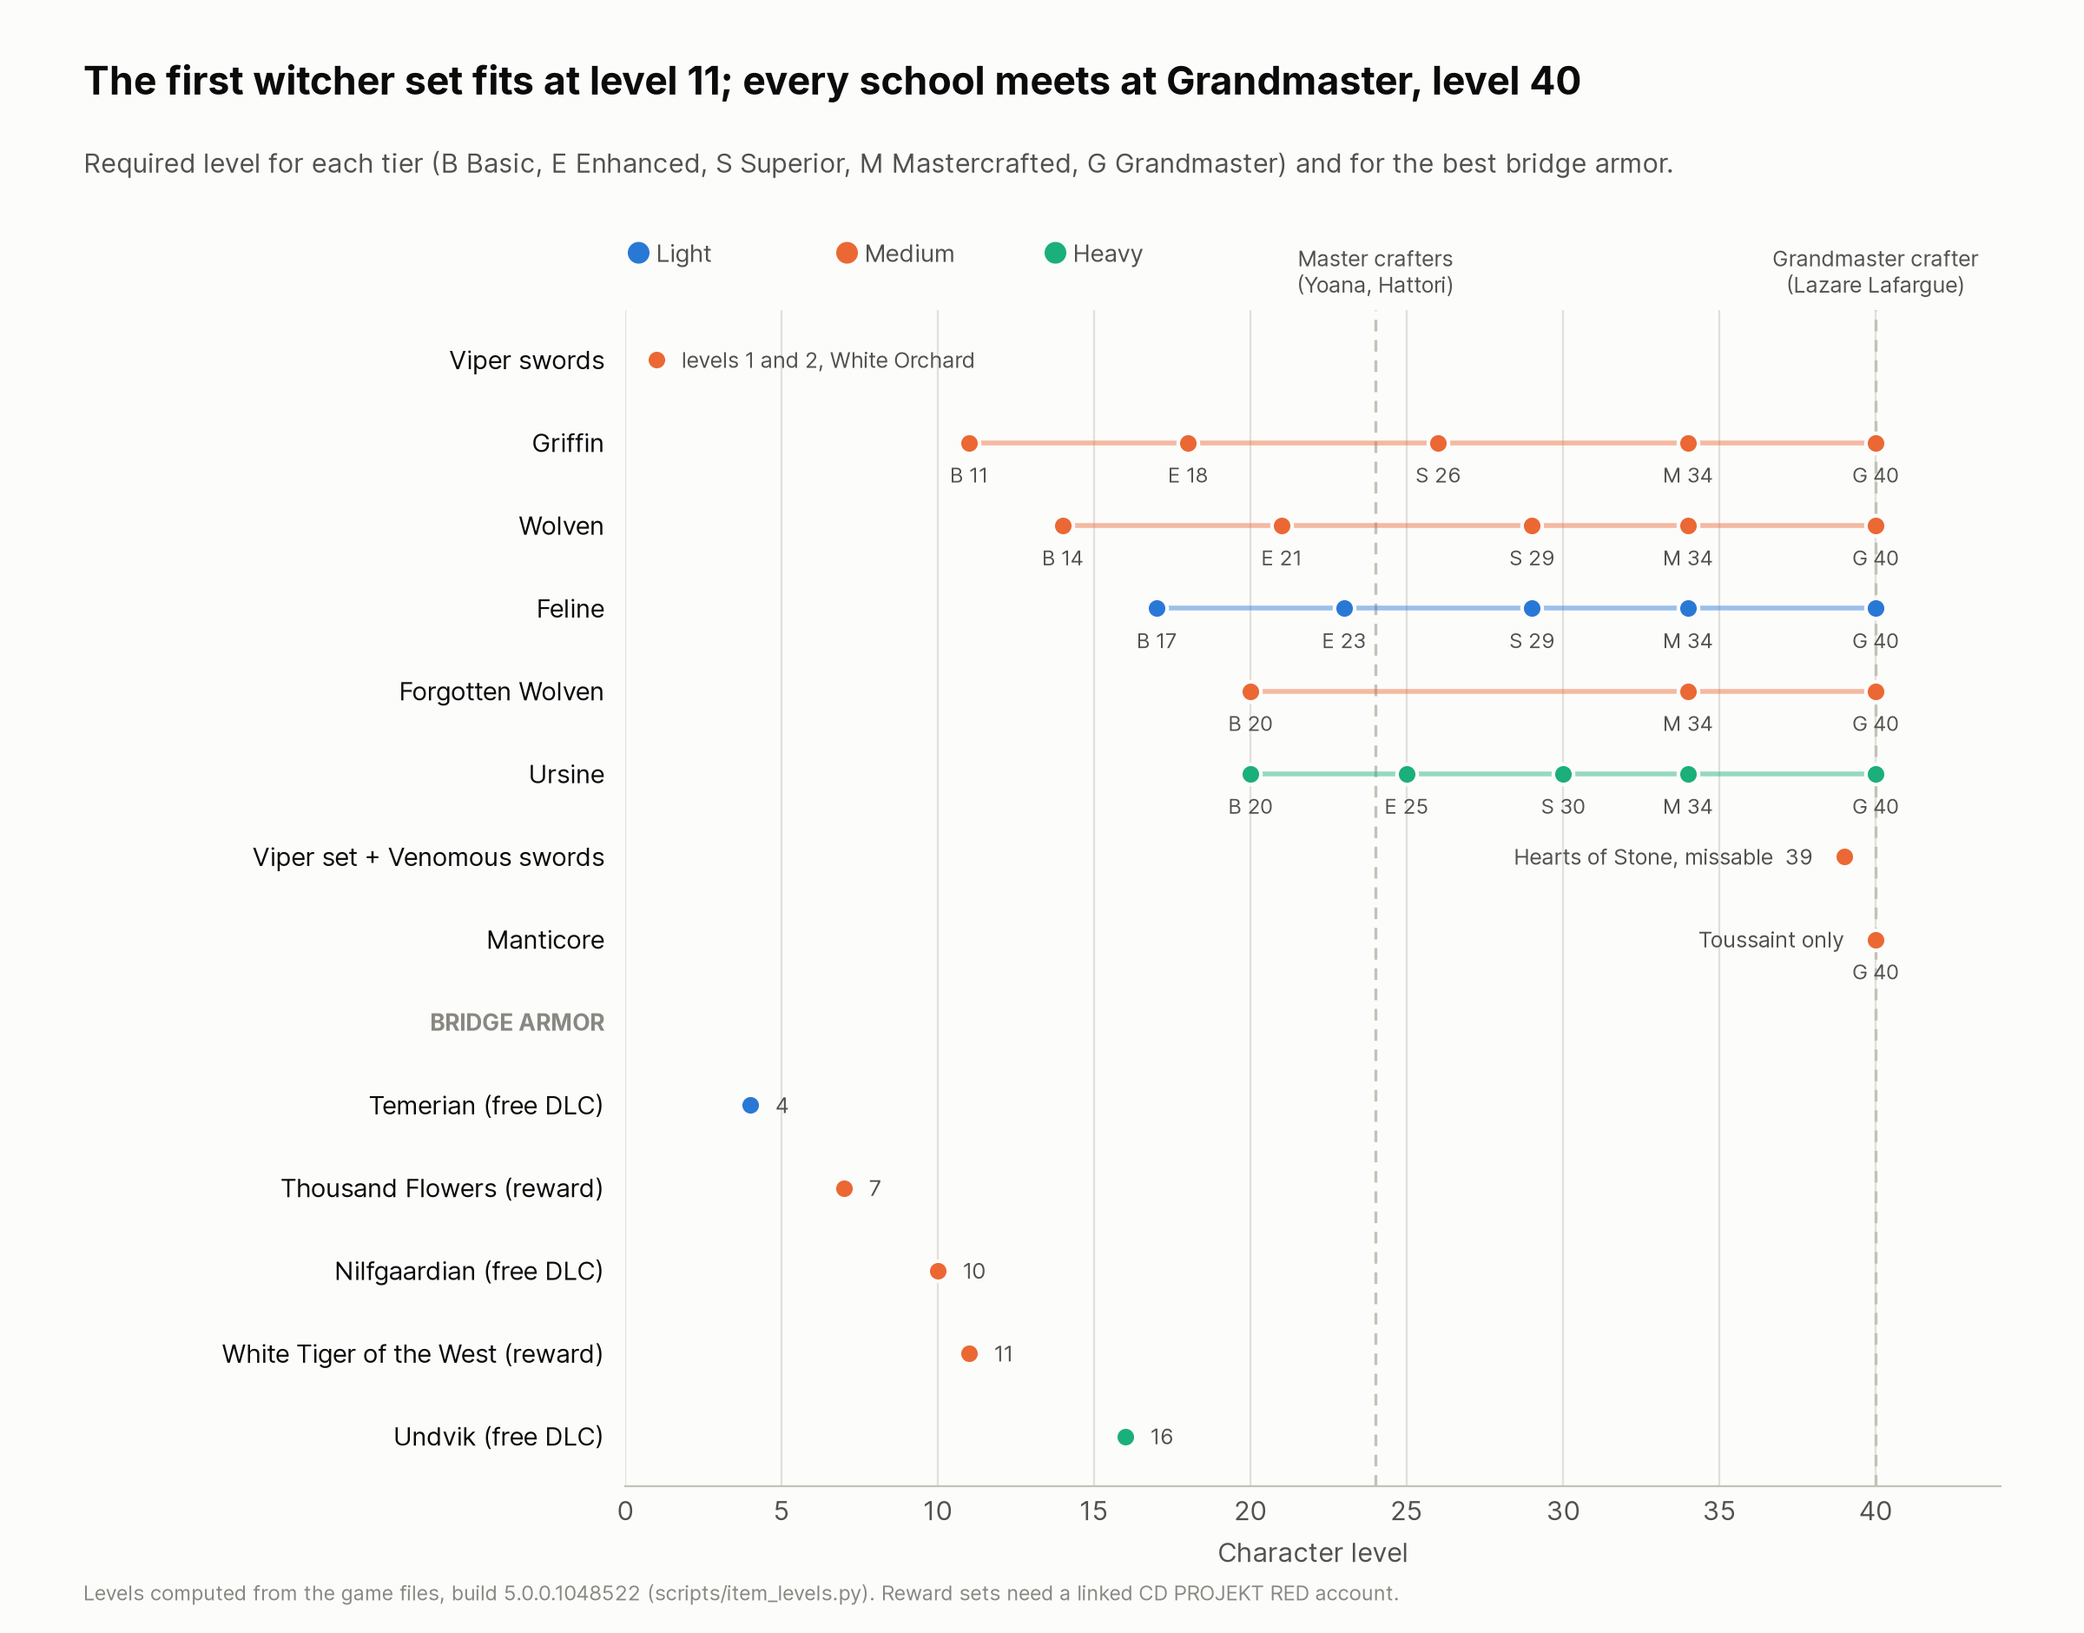
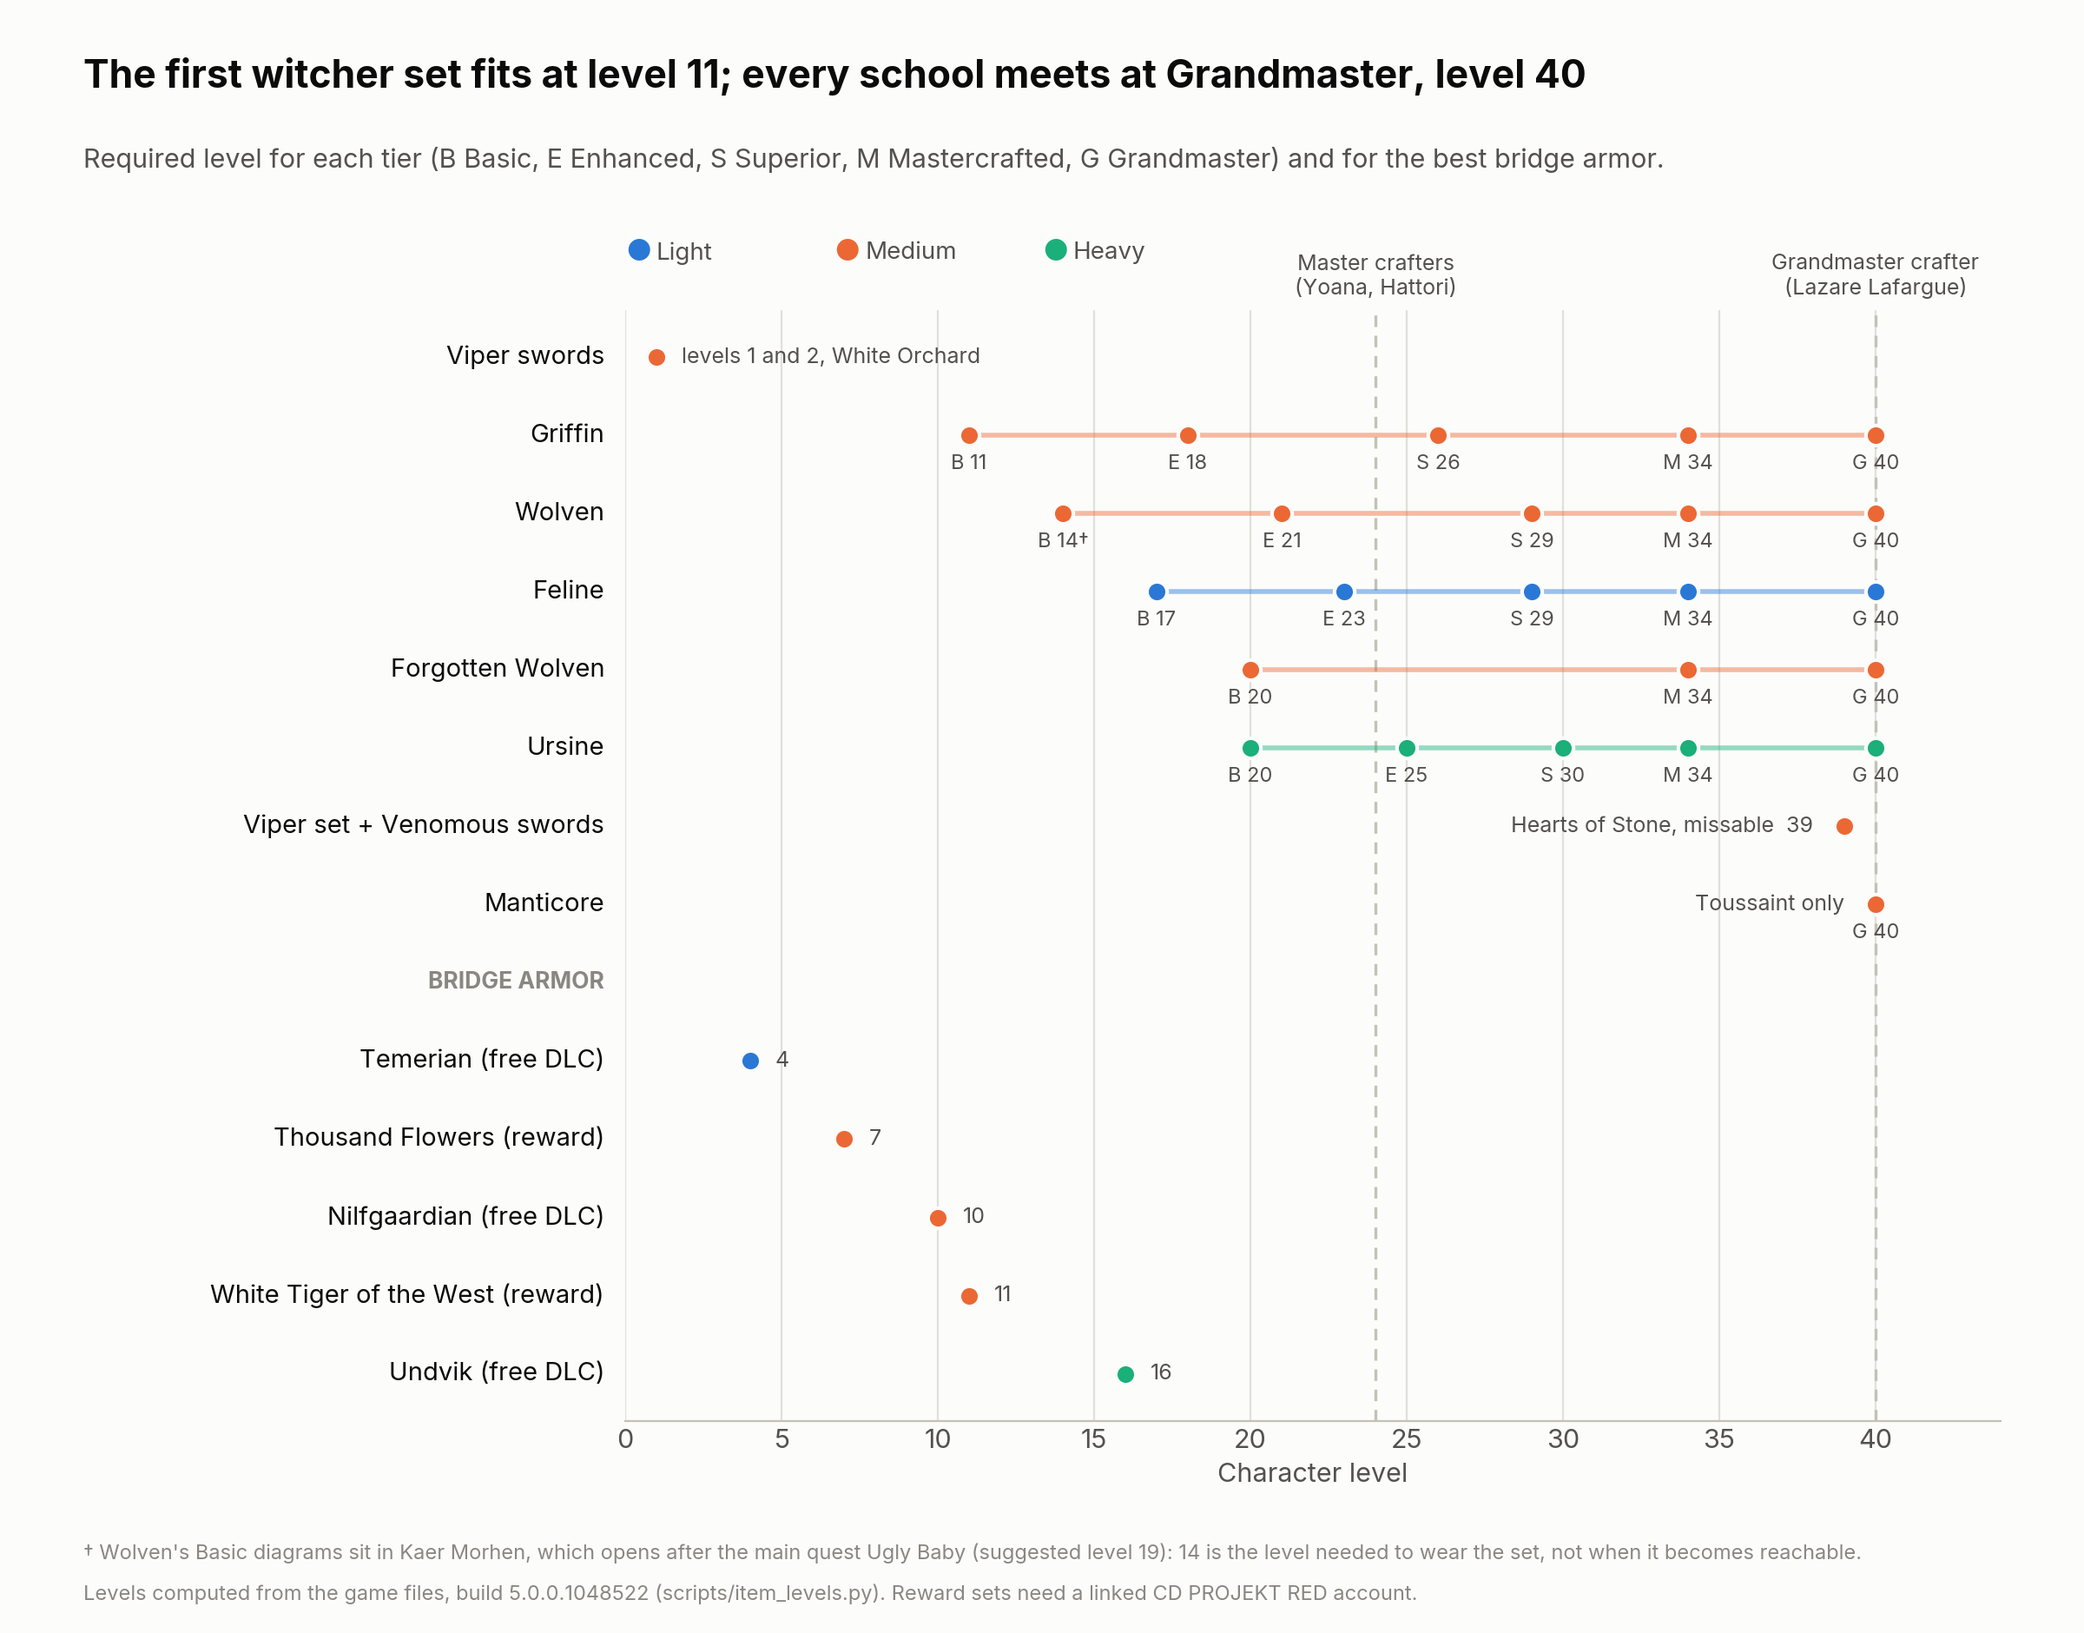
Mark Wolven as gated by Kaer Morhen, not just level 14
The set tables give each tier's required level, and Wolven's Basic tier is
14, but a level is only what it takes to wear a piece, not when its
diagrams become reachable. Every Wolven diagram sits in Kaer Morhen, which
only opens after the main quest Ugly Baby (suggested level 19), so the set
arrives mid-game and a reader following the numbers can plan around armor
they cannot get yet.

The set table in chapter 3 now names the gate, and a note under it draws
the distinction between a wear requirement and availability. Chapter 7's
comparison row and its footnote say the same, chapter 8's note under the
weight table says levels are wear requirements rather than availability,
and chapters 12 and 16 no longer present 14 as the level the set arrives at.

The gear timeline chart marks the row: B 14 carries a dagger that points at
a footnote naming Kaer Morhen and Ugly Baby, so the chart no longer implies
the set is reachable at 14. Its axes were nudged to fit the extra line.

check_links.py and check_plans.py both pass.

diff --git a/scripts/charts.py b/scripts/charts.py
@@ -229,6 +229,11 @@ def school_map():
 def gear_timeline():
     # DATA: tier levels, computed from the 5.0 game files by scripts/item_levels.py
     # (they match the older Console Pulse, Gamestegy and KeenGamer figures)
+    # Rows whose Basic tier is level-gated by where its diagrams sit: the number
+    # is what it takes to wear the piece, not when the diagrams become reachable.
+    # Wolven: all diagrams are in Kaer Morhen, which opens after the main quest
+    # Ugly Baby (suggested level 19). Witcher wiki: Scavenger Hunt: Wolf School Gear.
+    gated = {"Wolven": "\u2020"}
     witcher = [
         ("Viper swords", "Medium", [(1, "")], "levels 1 and 2, White Orchard"),
         ("Griffin", "Medium", [(11, "B"), (18, "E"), (26, "S"), (34, "M"), (40, "G")], ""),
@@ -248,7 +253,7 @@ def gear_timeline():
     ]
     rows = [(n, w, t, note) for n, w, t, note in witcher] + [None] + [(n, w, t, "") for n, w, t in bridge]
     fig = plt.figure(figsize=(12, 9.4))
-    ax = fig.add_axes([0.30, 0.09, 0.66, 0.72])
+    ax = fig.add_axes([0.30, 0.13, 0.66, 0.68])
     titled(fig, "The first witcher set fits at level 11; every school meets at Grandmaster, level 40",
            "Required level for each tier (B Basic, E Enhanced, S Superior, M Mastercrafted, G Grandmaster) and for the best bridge armor.", top=0.965)
     n = len(rows)
@@ -275,7 +280,8 @@ def gear_timeline():
         ax.scatter(xs, [i] * len(xs), s=70, color=c, edgecolor=SURFACE, linewidth=1.5, zorder=3)
         for x, lab in tiers:
             if lab:
-                ax.text(x, i + 0.24, f"{lab} {x}", ha="center", va="top", fontsize=8.5, color=INK2)
+                mark = gated.get(name, "") if lab == "B" else ""
+                ax.text(x, i + 0.24, f"{lab} {x}{mark}", ha="center", va="top", fontsize=8.5, color=INK2)
             elif not note:
                 ax.text(x + 0.8, i, str(x), ha="left", va="center", fontsize=9, color=INK2)
         if note:
@@ -289,6 +295,8 @@ def gear_timeline():
     for k, (w, c) in enumerate(WEIGHT.items()):
         fig.text(0.30 + k * 0.1, 0.845, "●", color=c, fontsize=12, va="center")
         fig.text(0.315 + k * 0.1, 0.845, w, color=INK2, fontsize=10, va="center")
+    fig.text(0.04, 0.045, "\u2020 Wolven's Basic diagrams sit in Kaer Morhen, which opens after the main quest Ugly Baby (suggested level 19): 14 is the level needed to wear the set, not when it becomes reachable.",
+             fontsize=8.5, color=MUTED)
     fig.text(0.04, 0.02, "Levels computed from the game files, build 5.0.0.1048522 (scripts/item_levels.py). Reward sets need a linked CD PROJEKT RED account.",
              fontsize=8.5, color=MUTED)
     save(fig, "gear-timeline.png")

diff --git a/chapters/12-wolven.md b/chapters/12-wolven.md
@@ -158,7 +158,7 @@ As Focus, Resonance and Synergy arrive, they take the places of Refreshment, Und
 
 **Where the two Wolf sets come from.**
 
-- **Wolven:** Basic level 14, but its armor diagrams sit in **Kaer Morhen**, which only opens after the main quest *Ugly Baby*, so in practice it arrives mid-game. The hunt can also start from notes sold in Lindenvale or Kaer Trolde. The later tiers are spread across Velen and Skellige, and the Grandmaster diagrams are in the Termes Palace Ruins in Toussaint ([Console Pulse: Wolf School gear](https://consolepulse.com/multiplatform/the-witcher/guides/witcher-3-wolf-school-gear-guide); [Mobalytics](https://mobalytics.gg/gamebase/guides/witcher-3-how-to-get-wolven-school-gear-set)).
+- **Wolven:** the Basic tier needs level 14, but that is only what it takes to wear it. Every diagram in the set sits in **Kaer Morhen**, which only opens after the main quest *Ugly Baby* (suggested level 19), so in practice the set arrives mid-game, not at 14. The hunt can also start from notes sold in Lindenvale or Kaer Trolde. The later tiers are spread across Velen and Skellige, and the Grandmaster diagrams are in the Termes Palace Ruins in Toussaint ([Console Pulse: Wolf School gear](https://consolepulse.com/multiplatform/the-witcher/guides/witcher-3-wolf-school-gear-guide); [Mobalytics](https://mobalytics.gg/gamebase/guides/witcher-3-how-to-get-wolven-school-gear-set)).
 - **Forgotten Wolven:** only Basic (20), Mastercrafted (34) and Grandmaster (40). The Basic diagrams are the reward for *In the Eternal Fire's Shadow*, which starts with an Eternal Fire priest at Devil's Pit in Velen (quest level 15); Reinald hands over all six. The Mastercrafted and Grandmaster diagrams are in Osmund's and Vesemir's notes on the upper bookcase in Kaer Morhen's main hall, reached by a ladder; the Grandmaster tier needs Blood and Wine ([Console Pulse: Forgotten Wolf gear](https://consolepulse.com/multiplatform/the-witcher/guides/the-witcher-3-forgotten-wolf-school-gear-guide); [Fextralife](https://thewitcher3.wiki.fextralife.com/Scavenger+Hunt:+Forgotten+Wolf+School+Gear+Diagrams)).
 
 **Why Forgotten Wolven for this build.** Its pieces are built for sword and Sign play: the chest adds attack power and Adrenaline gain, the gauntlets Aard intensity, the trousers Sign intensity, the boots Yrden intensity, and the swords Sign intensity, Adrenaline, crits and bleeding ([GGRecon](https://www.ggrecon.com/guides/the-witcher-3-forgotten-wolf-armor/)). Its Grandmaster bonuses fit too: **+7% potion duration per set piece** at three pieces, and **extra Aard damage against enemies affected by Yrden** at six, which is the same trap-then-Sign setup Catalyst already rewards. The regular Wolven set's bonuses are about bleeding instead (chapter 3), which suits a fast-attack build better. Some wiki pages show the bleed bonus on Forgotten Wolven pieces as well, so check the tooltip before you craft.

diff --git a/chapters/07-choosing-a-school.md b/chapters/07-choosing-a-school.md
@@ -17,13 +17,13 @@ The first is available from your first skill point, the third grows over the who
 | **Armor** | Light | Medium | Heavy | Medium | Medium | Medium |
 | **Technique, 4 pieces at rank 3** | +24% fast attacks (the published +96% crit damage adds nothing) | +24% Sign intensity, +2.4 Stamina/s | +24% Vitality, +24% strong attacks | +24% weapon damage and Sign intensity | +24% sword and bomb damage | +24% Vitality and poison damage |
 | **Leans on** | Held Adrenaline, crits | Stamina, Yrden | Vitality, Quen | A bit of everything | Toxicity, decoctions | Poison, oils |
-| **First set tier** | Level 17 | Level 11 | Level 20 | Level 14 (Kaer Morhen) | Level 40 only | Swords level 1, armor 39 |
+| **First set tier** | Level 17 | Level 11 | Level 20 | Level 14, but Kaer Morhen opens after *Ugly Baby* | Level 40 only | Swords level 1, armor 39 |
 | **Grandmaster bonus, short** | Strong attacks power up fast attacks; rear attacks stun | Free follow-up Signs; huge bonuses inside Yrden | Free Quen recasts; Quen damage +200% | Bleeding stacks into sword damage | Bombs crit; +1 charge on potions and bombs | None |
 | **Mutation** | Bloodbath | Magic Sensibilities, then Conductors of Magic | Mutated Skin | Conductors of Magic | Euphoria | Euphoria |
 | **Effort** | High skill, low prep | Medium | Low | Medium | High prep | High prep, missable gear |
 | **Chapter** | [9](09-feline.md) | [10](10-griffin.md) | [11](11-ursine.md) | [12](12-wolven.md) | [13](13-manticore.md) | [14](14-viper.md) |
 
-Technique values: [witcherhour.com](https://witcherhour.com/skills/). Set levels and bonuses: chapter 3. The Wolven set's Basic tier is level 14, but its armor diagrams sit in Kaer Morhen, which only opens after the main quest *Ugly Baby*.
+Technique values: [witcherhour.com](https://witcherhour.com/skills/). Set levels and bonuses: chapter 3. The Wolven set's Basic tier is level 14, but that is only the level needed to wear it: its armor diagrams sit in Kaer Morhen, which only opens after the main quest *Ugly Baby* (suggested level 19), so the set arrives around then.
 
 ## Five questions that decide it
 

diff --git a/chapters/03-gear-basics.md b/chapters/03-gear-basics.md
@@ -31,7 +31,7 @@ Each school's gear comes in up to five tiers: **Basic, Enhanced, Superior, Maste
 | Set | Weight | Level by tier (B / E / S / M / G) | Where the diagrams are |
 | --- | --- | --- | --- |
 | **Griffin** | Medium | 11 / 18 / 26 / 34 / 40 | Velen and Novigrad, then Skellige, then Toussaint |
-| **Wolven** | Medium | 14 / 21 / 29 / 34 / 40 | Kaer Morhen, Velen and Skellige, then Toussaint |
+| **Wolven** | Medium | 14 / 21 / 29 / 34 / 40 | Kaer Morhen (after *Ugly Baby*), Velen and Skellige, then Toussaint |
 | **Feline** | Light | 17 / 23 / 29 / 34 / 40 | Novigrad and Velen, then Skellige, then Toussaint |
 | **Forgotten Wolven** | Medium | 20 / – / – / 34 / 40 | Velen (quest), then Kaer Morhen notes |
 | **Ursine** | Heavy | 20 / 25 / 30 / 34 / 40 | Skellige, then Velen, then Toussaint |
@@ -39,6 +39,8 @@ Each school's gear comes in up to five tiers: **Basic, Enhanced, Superior, Maste
 | **Manticore** | Medium | Grandmaster only, 40 | Toussaint |
 
 **File-verified:** the game doesn't store an item's level; it computes it from the item's armor or damage value, and every level in this table matches that calculation for the installed 5.0 files (chapter 20). The older guides (Console Pulse, Gamestegy) and a 5.0 KeenGamer article give the same numbers. Chapter 16 draws all of them on one timeline, and each school chapter links a location guide for its diagrams.
+
+**A level is what it takes to wear a piece, not when you can get it.** Wolven is the case that matters: its Basic tier needs level 14, but every diagram of the set sits in Kaer Morhen, which only opens after the main quest *Ugly Baby* (suggested level 19), so the set arrives later than its number suggests (chapter 16).
 
 **About Manticore's weight.** One Remastered guide calls the Manticore set light. Every other source, including the 5.0 Manticore School Technique (which rewards medium armor), says medium. The "light" reading most likely came from a chest piece enchanted with the Levity glyphword. This book treats Manticore as medium.
 

diff --git a/chapters/16-gear-path.md b/chapters/16-gear-path.md
@@ -2,7 +2,7 @@
 
 This chapter follows the playthrough instead of the schools: what's worth picking up in each region, which witcher tiers to craft and when, and what each set is best used for. The school chapters already say which set each build wants; this is where it all sits on one timeline.
 
-![Required level for each witcher set tier and for the best bridge armor, with the Master crafters at level 24 and the Grandmaster crafter at 40](../images/gear-timeline.png)
+![Required level for each witcher set tier and for the best bridge armor, with the Master crafters at level 24 and the Grandmaster crafter at 40. Wolven's Basic tier is marked because its diagrams wait behind Kaer Morhen](../images/gear-timeline.png)
 
 Three things stand out on the timeline:
 
@@ -63,7 +63,7 @@ Location guides: Mobalytics has one for each of Cat, Griffin, Ursine, Wolven and
 
 Kaer Morhen only opens up after *Ugly Baby*. Two sets live here:
 
-- **Wolven:** the Basic armor diagrams (level 14) are here, along with Enhanced and Superior diagrams, so the Wolven set realistically arrives mid-game.
+- **Wolven:** the Basic armor diagrams are here, along with Enhanced and Superior diagrams. The Basic tier only needs level 14 to wear, but you reach Kaer Morhen after *Ugly Baby* (suggested level 19), so the set realistically arrives mid-game.
 - **Forgotten Wolven:** Osmund's notes and Vesemir's note, on the upper bookcase in the main hall (climb the ladder), hold the Mastercrafted diagrams and, with Blood and Wine, the Grandmaster ones.
 
 ## Hearts of Stone (levels 30–39)

diff --git a/chapters/08-all-sets-playthrough.md b/chapters/08-all-sets-playthrough.md
@@ -165,7 +165,7 @@ Wear whichever set has the best stats; before level 40 the only thing a change c
 | Light | Temerian (4), Feline (17, 23, 29, 34) | Cat School Techniques: +2% fast attack damage per light piece per rank | Buy it (1 point, no prerequisite) and slot it in Wolf's place |
 | Heavy | Undvik (16), Ursine (20, 25, 30, 34) | Bear School Techniques: +2% maximum Vitality and +2% strong attack damage per heavy piece per rank | Buy it (1 point, no prerequisite) and slot it in Wolf's place |
 
-Levels are each tier's required level (chapter 3); Wolven's first diagrams wait at Kaer Morhen, so in practice that set arrives mid-game. Chapter 16 has every set's diagram locations, region by region.
+Levels are each tier's required level to wear (chapter 3), not when the set becomes available; Wolven's first diagrams wait at Kaer Morhen, which opens after *Ugly Baby*, so that set arrives mid-game rather than at level 14. Chapter 16 has every set's diagram locations, region by region.
 
 - **A Technique counts pieces, not sets.** Mixing a Feline chest with medium gloves, trousers and boots still leaves three pieces for Wolf.
 - **Weight also changes Stamina.** Light armor refills Stamina 25% faster and heavy 25% slower in combat (chapter 20), which you'll feel in how often you can cast and dodge.
